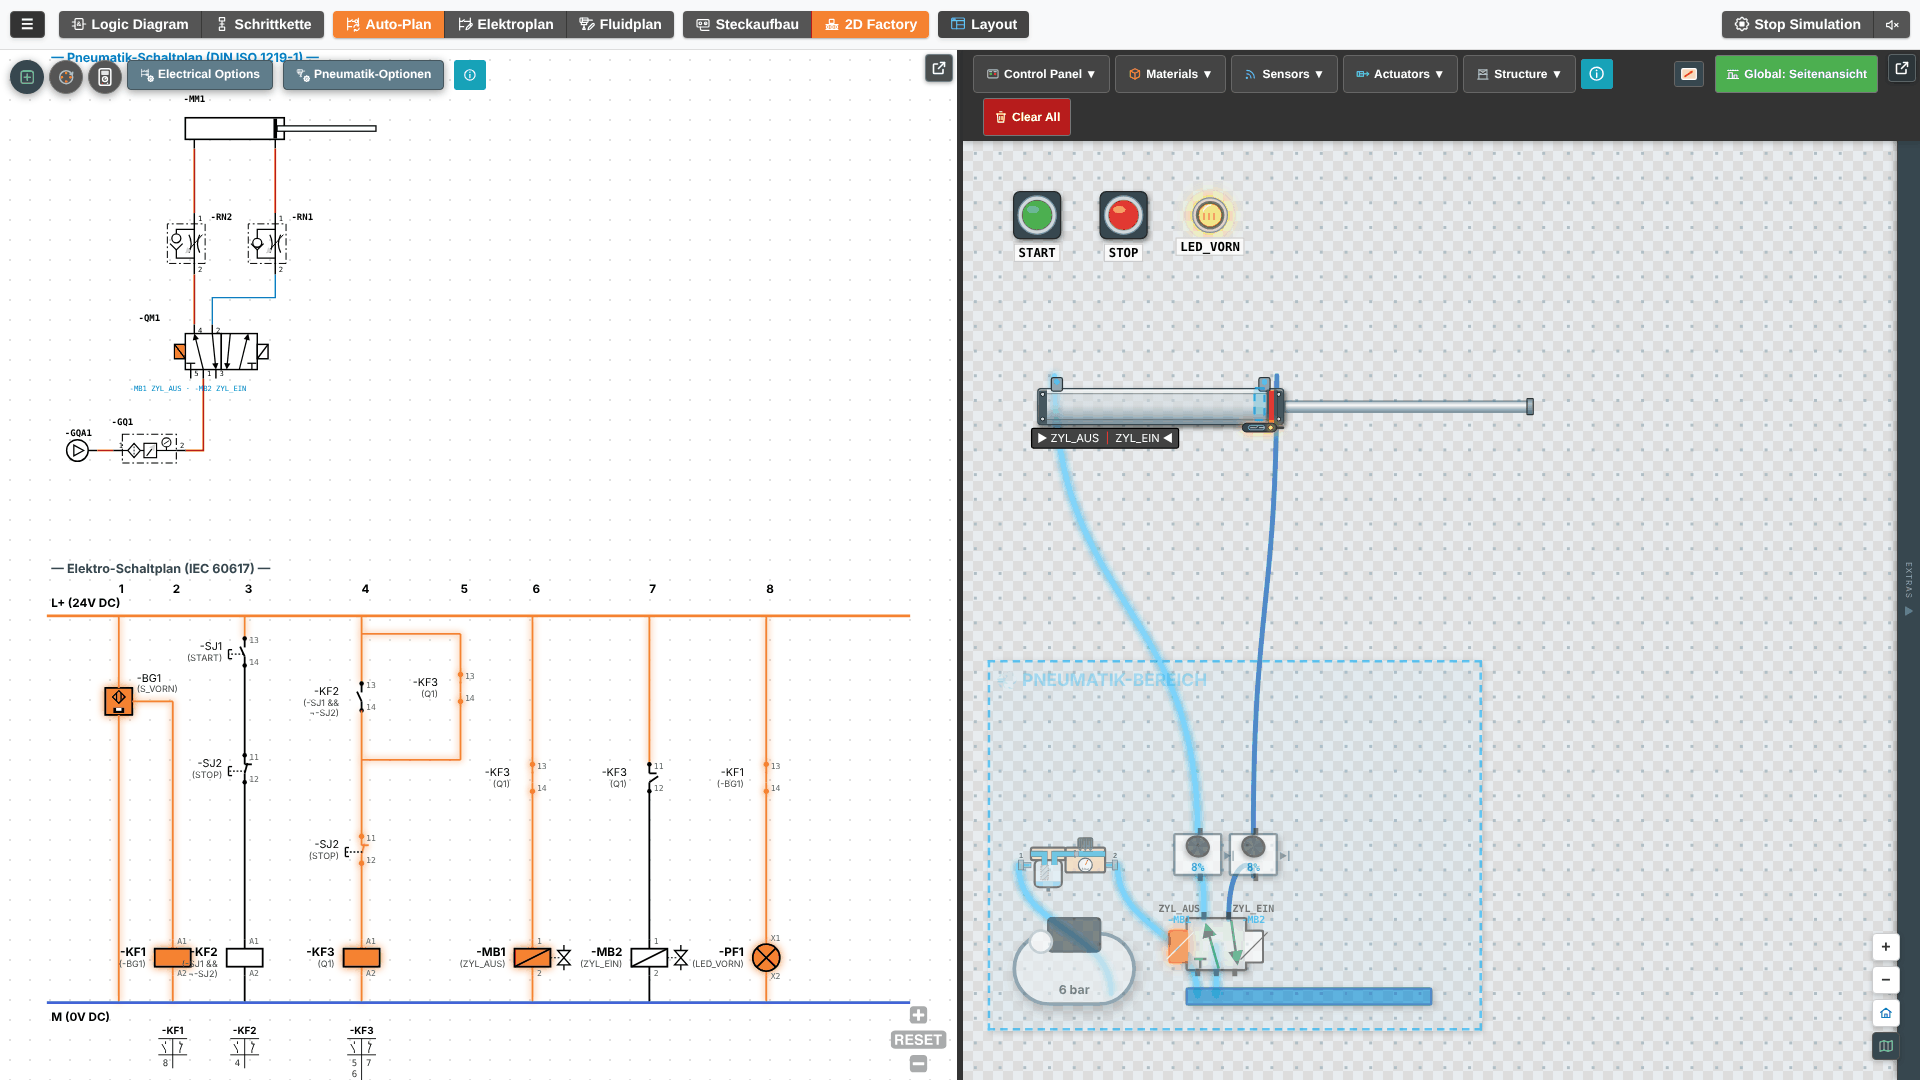
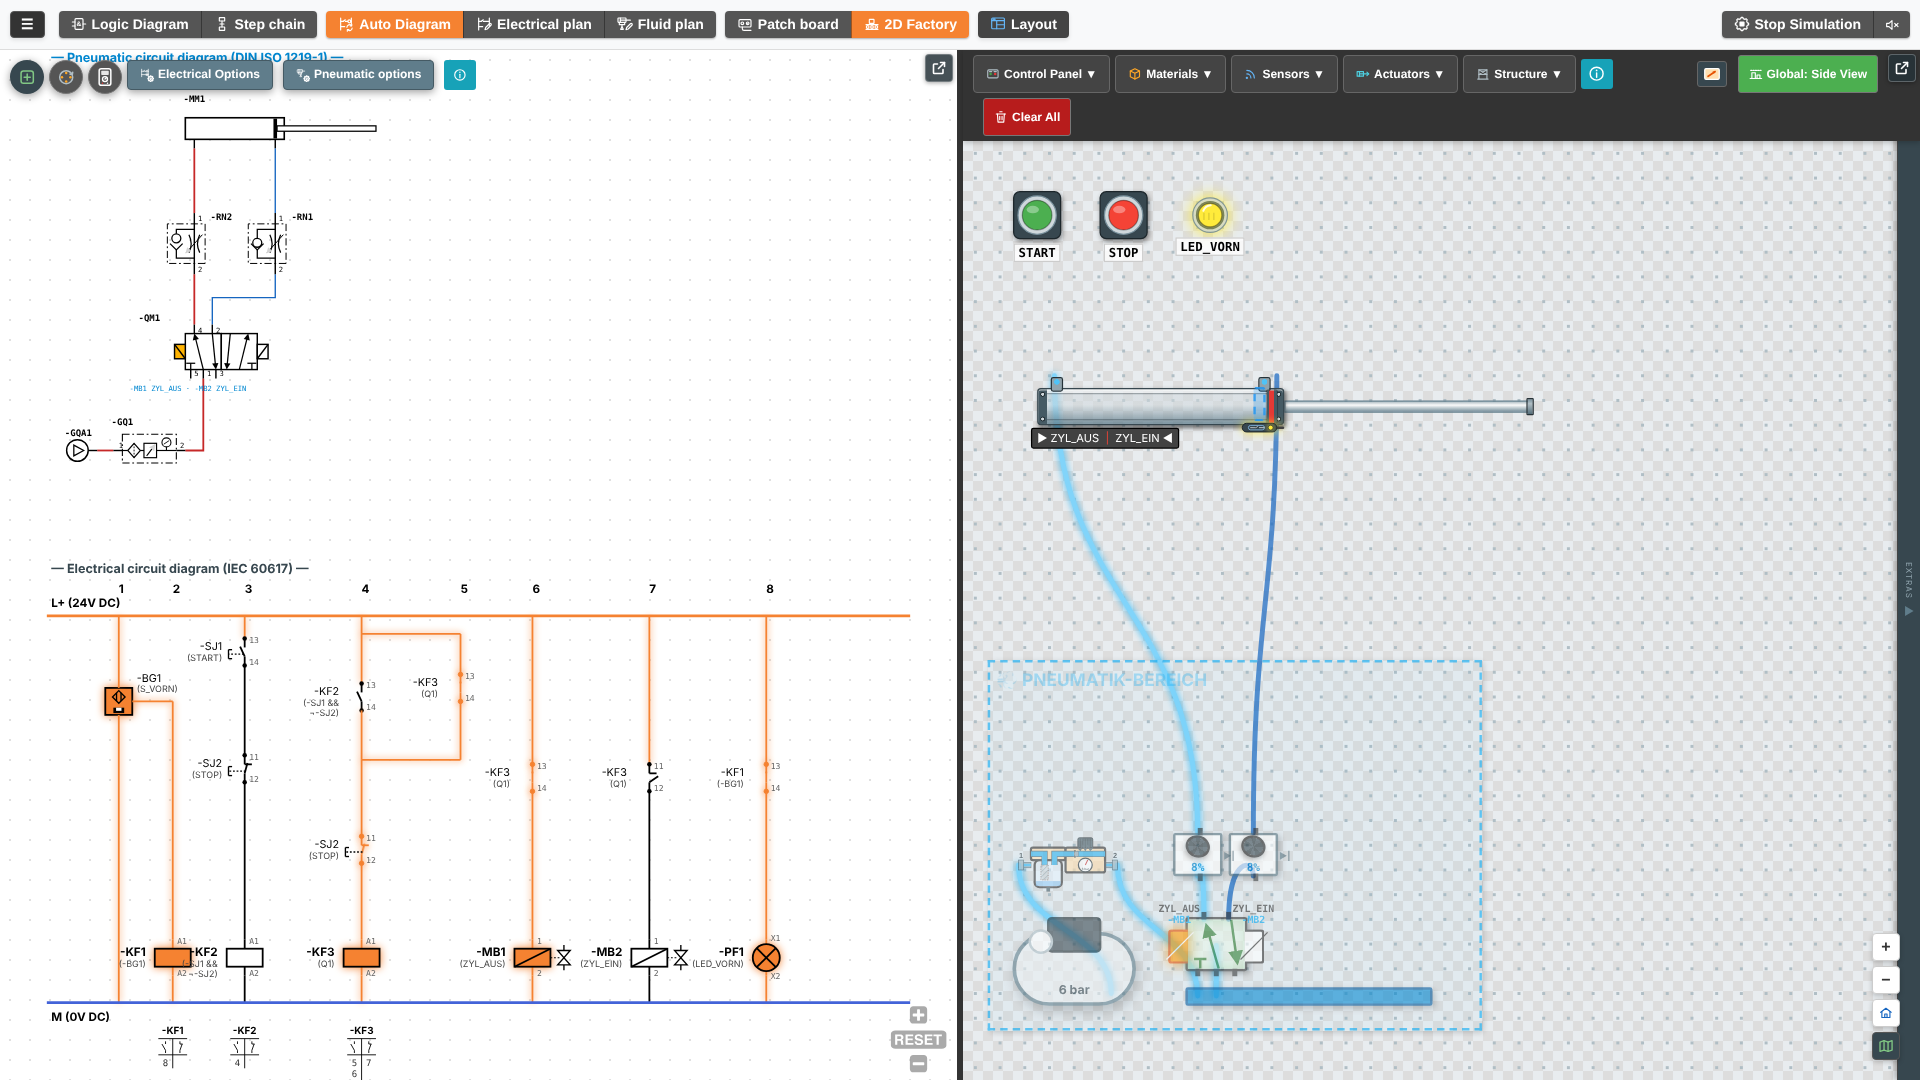
Englische Fassung: Beschriftungen, Auswahllisten, Platzhalter, Screenshots EN neu
Claude-Session: https://claude.ai/code/session_01Y4ZSnwYBrvDcoDiCyQwLiT

diff --git a/sprache/en-woerter.js b/sprache/en-woerter.js
@@ -1464,6 +1464,7 @@ VALIS_EN.dazu({
 "Bedienen (Eingänge)": "Operating (inputs)",
 "Bedienen und Melden": "Operating and signalling",
 "Bedienpanel (Taster, Schalter, Ampeln …)": "Control panel (push buttons, switches, traffic lights …)",
+"Bedienpult": "Control panel",
 "Bedienpult-Bauteile: Taster, Schalter, Not-Halt, Meldeleuchte (LED), Stacklight u. a. — alles, was ein Bediener am Schaltschrank berührt oder ablesen soll.": "Control panel components: push buttons, switches, emergency stop, indicator lamp (LED), stack light etc. — everything an operator touches or reads at the control cabinet.",
 "Bedienpult-Rahmen": "HMI Panel Frame",
 "Bedienung kurz erklärt": "Short guide to operation",
@@ -3979,6 +3980,8 @@ VALIS_EN.dazu({
 "Noch nichts veröffentlicht.": "Nothing published yet.",
 "Norm-Bezeichnung:": "Standard designation:",
 "Norm-Notation IEC 60848 umschalten — AN: Betriebsmittelart (SF1, BG1, MB1, …) als Hauptreferenz mit Variable in Klammern; Logik in Grafcet-Symbolen (+ = ODER, * = UND, Überstrich = Negation, auch über Klammer-Gruppen); Analog-Vergleiche in [ … ]; Zeit als t s/X<n>. Aktionen ohne 61131-3-Buchstaben (kontinuierlich/gespeichert :=1/0/bedingt/verzögert). Simultane Verzweigung mit Doppellinie, Rücksprünge als Pfeil. AUS: Variablen-Namen mit && / || / ¬ wie im Code. (Betrifft nur die Grafcet-Ansicht — S7-GRAPH behält die 61131-3-Qualifier.)": "Switch standard notation IEC 60848 — ON: equipment class (SF1, BG1, MB1, …) as the main reference with the variable in brackets; logic in Grafcet symbols (+ = OR, * = AND, overbar = negation, also over bracket groups); analog comparisons in [ … ]; time as t s/X<n>. Actions without 61131-3 letters (continuous/stored :=1/0/conditional/delayed). Simultaneous branching with a double line, jumps back as an arrow. OFF: variable names with && / || / ¬ as in the code. (Only affects the Grafcet view — S7-GRAPH keeps the 61131-3 qualifiers.)",
+"Norm: AN": "Standard: ON",
+"Norm: AUS": "Standard: OFF",
 "Normal (Teile überlappen) oder Massiv (Teile stoßen sich)": "Normal (parts overlap) or solid (parts push each other)",
 "Normal (Überlappen)": "Normal (overlapping)",
 "Normal — Aktor folgt dem Step. An wenn Step aktiv, aus wenn Step inaktiv.": "Normal: the actuator follows the step. On when the step is active, off when the step is inactive.",
@@ -8794,6 +8797,8 @@ VALIS_EN.dazu({
 "📐 Kraft–Weg": "📐 Force–stroke",
 "📐 Layout & Feinschliff": "📐 Layout & fine-tuning",
 "📐 Logikplan (FBS)": "📐 Logic diagram (FBD)",
+"📐 Norm: AN": "📐 Standard: ON",
+"📐 Norm: AUS": "📐 Standard: OFF",
 "📐 Position und Rotation des Anbauteils werden relativ zur Kolbenstange gespeichert. Wird der Zylinder gedreht oder verschoben, folgt das Anbauteil automatisch.": "📐 Position and rotation of the attachment are stored relative to the piston rod. If the cylinder is rotated or moved, the attachment follows automatically.",
 "📐 Regelstrecke (Modell)": "📐 Controlled system (model)",
 "📐 Spawn-Offset zum Spawner (px)": "📐 Spawn offset from the spawner (px)",

diff --git a/sprache/sprache-en.js b/sprache/sprache-en.js
@@ -340,7 +340,7 @@
   } catch (e) {}
 
   // Wörterbuch nur laden, wenn Englisch gebraucht wird (rund 0,5 MB)
-  const WOERTER_V = '081befcf';
+  const WOERTER_V = '0835dc35';
   const pfad = (function () {
     const sc = document.currentScript && document.currentScript.src;
     return sc ? sc.replace(/sprache-en\.js.*$/, '') : 'sprache/';
